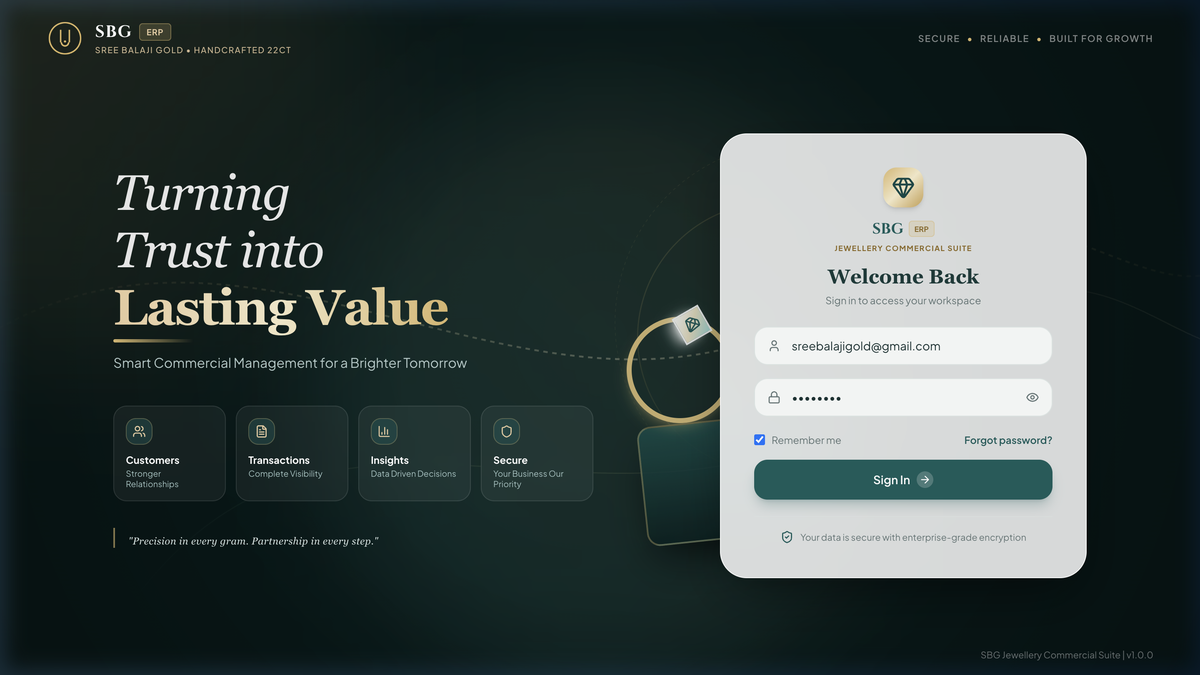
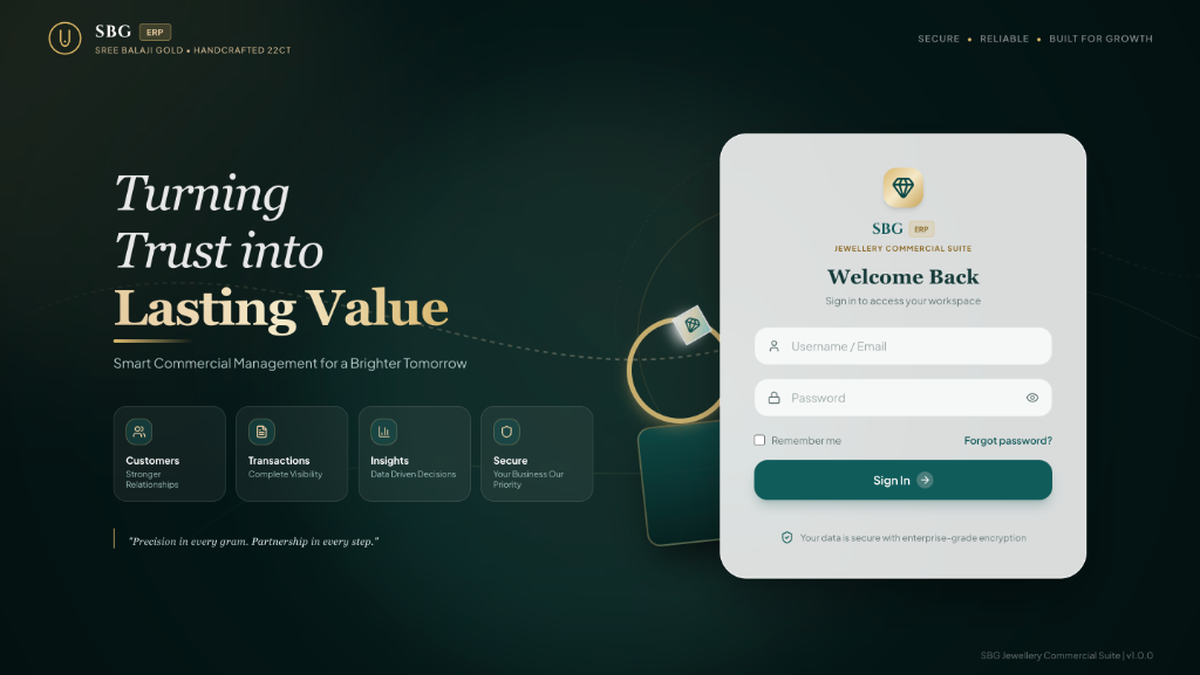
feat(seo): update social media and WhatsApp link preview thumbnail to luxury login page

diff --git a/index.html b/index.html
@@ -9,36 +9,36 @@
     <meta property="og:site_name" content="Sree Balaji Gold" />
     <meta property="og:title" content="Sree Balaji Gold — SBG Jewellery Commercial Suite" />
     <meta property="og:description" content="Sree Balaji Gold (SBG) — Precision Jewellery Commercial, Customer Ledger, Estimates & Settlement Management Suite" />
-    <meta property="og:image" content="https://sbg-eta.vercel.app/og-thumbnail.jpg" />
-    <meta property="og:image:secure_url" content="https://sbg-eta.vercel.app/og-thumbnail.jpg" />
+    <meta property="og:image" content="https://sbg-eta.vercel.app/sbg-login-preview.jpg?v=20261013" />
+    <meta property="og:image:secure_url" content="https://sbg-eta.vercel.app/sbg-login-preview.jpg?v=20261013" />
     <meta property="og:image:type" content="image/jpeg" />
     <meta property="og:image:width" content="1200" />
     <meta property="og:image:height" content="675" />
-    <meta property="og:image:alt" content="Sree Balaji Gold — Turning Trust into Lasting Value" />
+    <meta property="og:image:alt" content="Sree Balaji Gold — Luxury Jewellery Commercial Suite Login" />
 
     <!-- Fallback square image for square preview cards -->
-    <meta property="og:image" content="https://sbg-eta.vercel.app/og-thumbnail-square.jpg" />
-    <meta property="og:image:secure_url" content="https://sbg-eta.vercel.app/og-thumbnail-square.jpg" />
+    <meta property="og:image" content="https://sbg-eta.vercel.app/sbg-login-preview-square.jpg?v=20261013" />
+    <meta property="og:image:secure_url" content="https://sbg-eta.vercel.app/sbg-login-preview-square.jpg?v=20261013" />
     <meta property="og:image:type" content="image/jpeg" />
     <meta property="og:image:width" content="1024" />
     <meta property="og:image:height" content="1024" />
 
     <!-- Direct image_src link for WhatsApp link preview crawler -->
-    <link rel="image_src" href="https://sbg-eta.vercel.app/og-thumbnail.jpg" />
-    <meta name="thumbnail" content="https://sbg-eta.vercel.app/og-thumbnail.jpg" />
+    <link rel="image_src" href="https://sbg-eta.vercel.app/sbg-login-preview.jpg?v=20261013" />
+    <meta name="thumbnail" content="https://sbg-eta.vercel.app/sbg-login-preview.jpg?v=20261013" />
 
     <!-- Twitter Card -->
     <meta name="twitter:card" content="summary_large_image" />
     <meta name="twitter:url" content="https://sbg-eta.vercel.app/" />
     <meta name="twitter:title" content="Sree Balaji Gold — SBG Jewellery Commercial Suite" />
     <meta name="twitter:description" content="Sree Balaji Gold (SBG) — Precision Jewellery Commercial, Customer Ledger, Estimates & Settlement Management Suite" />
-    <meta name="twitter:image" content="https://sbg-eta.vercel.app/og-thumbnail.jpg" />
+    <meta name="twitter:image" content="https://sbg-eta.vercel.app/sbg-login-preview.jpg?v=20261013" />
     <meta name="twitter:image:alt" content="Sree Balaji Gold — Turning Trust into Lasting Value" />
 
     <!-- Schema.org item properties -->
     <meta itemprop="name" content="Sree Balaji Gold — SBG Jewellery Commercial Suite" />
     <meta itemprop="description" content="Sree Balaji Gold (SBG) — Precision Jewellery Commercial, Customer Ledger, Estimates & Settlement Management Suite" />
-    <meta itemprop="image" content="https://sbg-eta.vercel.app/og-thumbnail.jpg" />
+    <meta itemprop="image" content="https://sbg-eta.vercel.app/sbg-login-preview.jpg?v=20261013" />
 
     <!-- Primary Meta Tags -->
     <title>Sree Balaji Gold — SBG Jewellery Commercial Suite</title>
